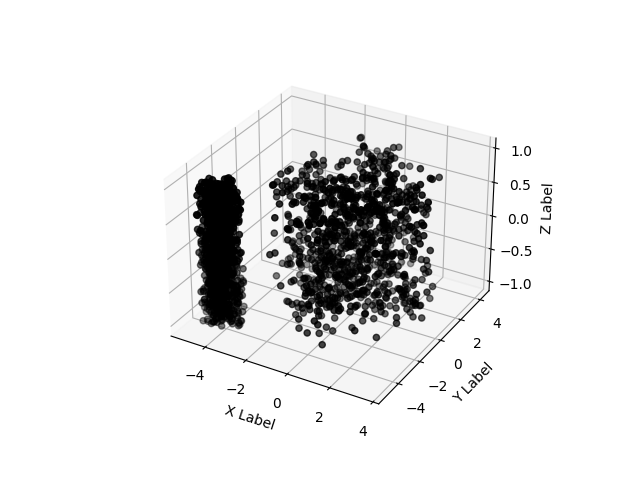
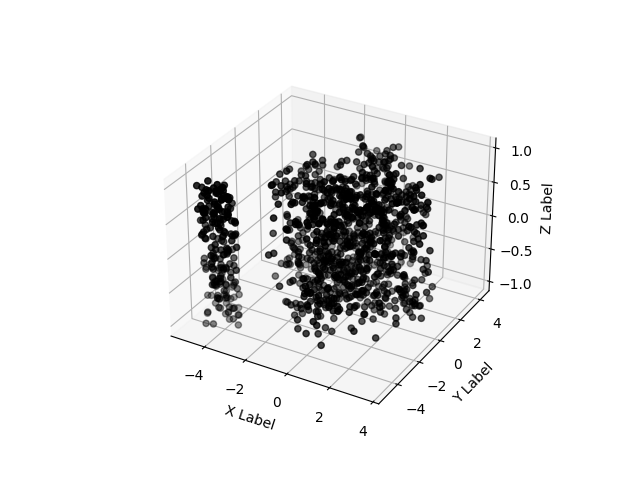
ш

diff --git a/3d_dich.py b/3d_dich.py
@@ -13,7 +13,9 @@ ax = fig.add_subplot(projection='3d')
 n = 0
 N = 1000
 xs, ys, zs = [], [], []
+
 phi = np.linspace(0, 2*np.pi, N)
+theta = np.linspace(0, 2*np.pi, N//5)
 for m, zlow, zhigh in [(',', -1, 1)]:
     xss = randrange(N, -3.7*np.cos(phi), 3.7*np.cos(phi))
     yss = randrange(N, -4.3*np.sin(phi), 4.3*np.sin(phi))
@@ -30,9 +32,9 @@ for m, zlow, zhigh in [(',', -1, 1)]:
 
     
 for m, zlow, zhigh in [(',', -1, 1)]:
-    x1 = randrange(N, -1*np.cos(phi)-4.1, 1*np.cos(phi)-4.1)
-    y1 = randrange(N, -1*np.sin(phi)-4.1, 1*np.sin(phi)-4.1)
-    z1 = randrange(N, zlow, zhigh)
+    x1 = randrange(N//5, -1*np.cos(theta)-4.1, 1*np.cos(theta)-4.1)
+    y1 = randrange(N//5, -1*np.sin(theta)-4.1, 1*np.sin(theta)-4.1)
+    z1 = randrange(N//5, zlow, zhigh)
 
     ax.scatter(xs, ys, zs, color='black')
     ax.scatter(x1, y1, z1, color='black')
